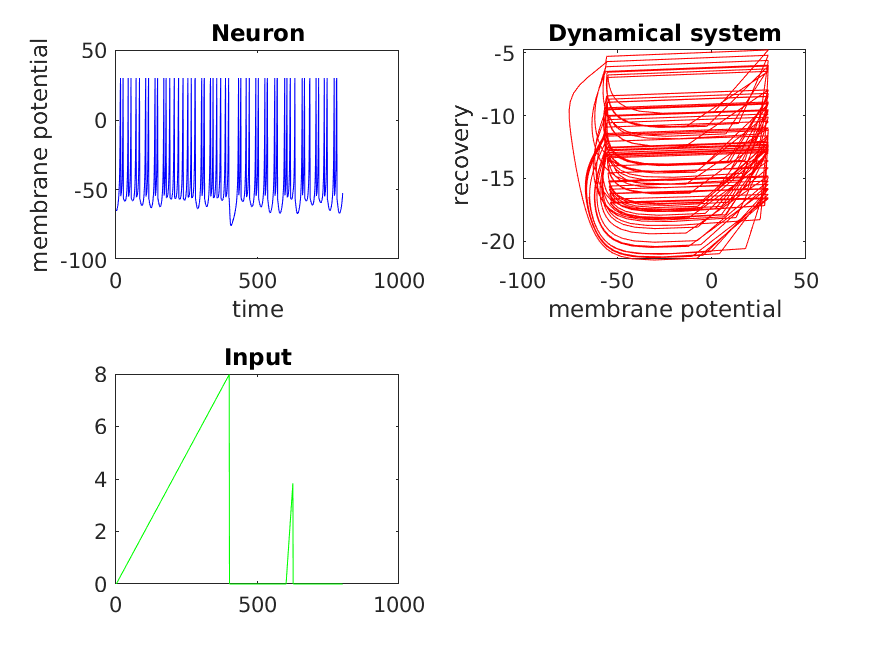
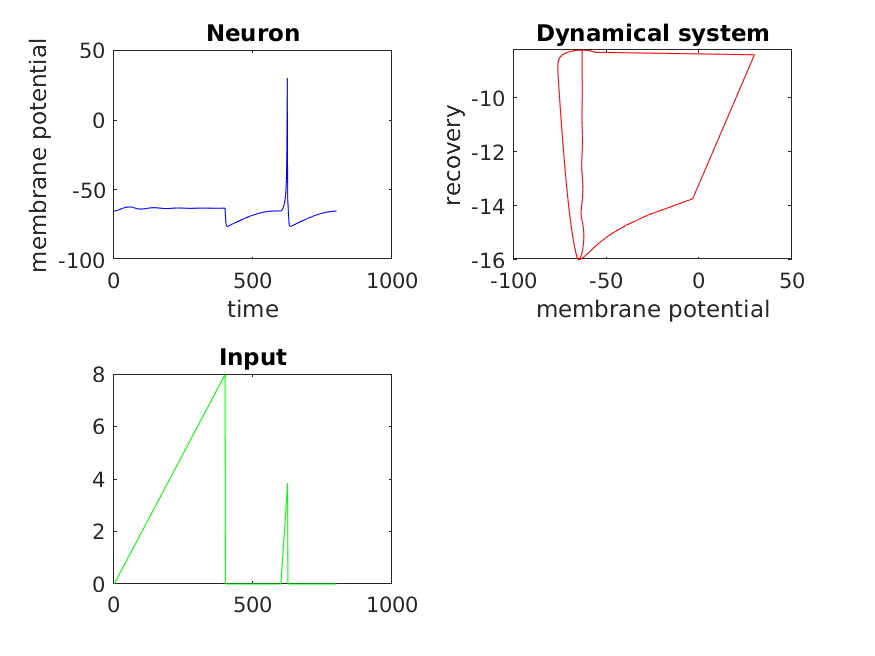
class Izhikevich

diff --git a/LAB1/Izhikevich.m b/LAB1/Izhikevich.m
@@ -1,0 +1,80 @@
+classdef Izhikevich
+    %UNTITLED Summary of this class goes here
+    %   Detailed explanation goes here
+    
+    properties
+        Potential
+        Recovery
+        Input
+    end
+    
+    methods
+        function obj = Izhikevich(u0, w0, parameters, tau, I, name)
+            %UNTITLED Construct an instance of this class
+            %   Detailed explanation goes here
+            if(strcmp(name,"Class 1") || strcmp(name,"Integrator"))
+                f = @(u, w, I) 0.04 * u^2 + 4.1 * u + 108 - w + I;
+                g = @(u, w, a, b) a * (b * u + 65);
+                display(name)
+            elseif(strcmp(name,"Accomodation"))
+                f = @(u, w, I) 0.04 * u^2 + 5 * u + 140 - w + I;
+                g = @(u, w, a, b) a * (b * u + 65);
+            else
+                f = @(u, w, I) 0.04 * u^2 + 5 * u + 140 - w + I;
+                g = @(u, w, a, b) a * (b * u - w);
+            end
+
+            a=parameters(1);
+            b=parameters(2);
+            c=parameters(3);
+            d=parameters(4);
+
+            obj.Input = I;
+            u = u0;
+            w = w0;
+            
+            obj.Potential = [];
+            obj.Recovery = [];
+            
+            
+            for i = 1 : length(I)
+                u = u + tau * f(u, w, I(i));
+                w = w + tau * g(u, w, a, b);
+            
+                if (u > 30)
+                    obj.Potential(end+1) = 30;
+                    u = c;
+                    w = w + d;
+                else
+                    obj.Potential(end+1) = u;
+                end
+                obj.Recovery(end+1) = w;
+            end
+        end
+
+        function plot(obj, name)
+            gcf = figure('Name',name,'NumberTitle','off');
+            
+            tiledlayout(2,2)
+            
+            nexttile
+            plot(obj.Potential, '-b')
+            title("Neuron")
+            xlabel('time')
+            ylabel('membrane potential')
+            
+            nexttile
+            plot(obj.Potential, obj.Recovery, '-r')
+            title("Dynamical system")
+            xlabel("membrane potential")
+            ylabel("recovery")
+            
+            nexttile
+            plot(obj.Input, '-g')
+            title("Input")
+            
+            saveas(gcf, fullfile('results', strcat(name, '.png')))
+        end
+    end
+end
+

diff --git a/LAB1/main.m b/LAB1/main.m
@@ -11,5 +11,6 @@ for i = 1:20
     parameters = data_values.Parameters(i,:);
     tau = data_values.Tau(i);
     input = cell2mat(input_signal(i));
-    izhikevich_model(name, u0, w0, parameters, tau, input);
+    Neuron = Izhikevich(u0, w0, parameters, tau, input, name);
+    Neuron.plot(name)
 end
